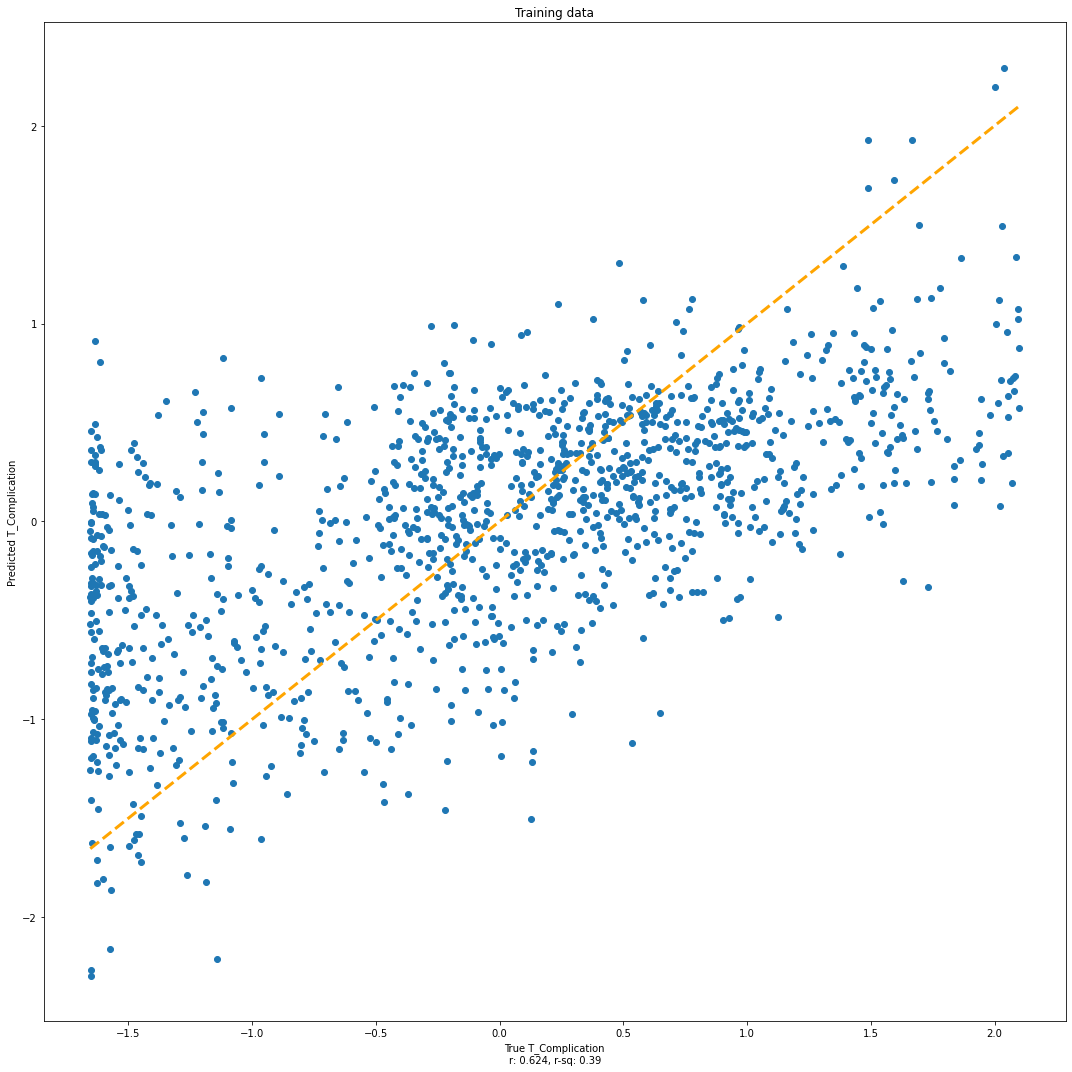
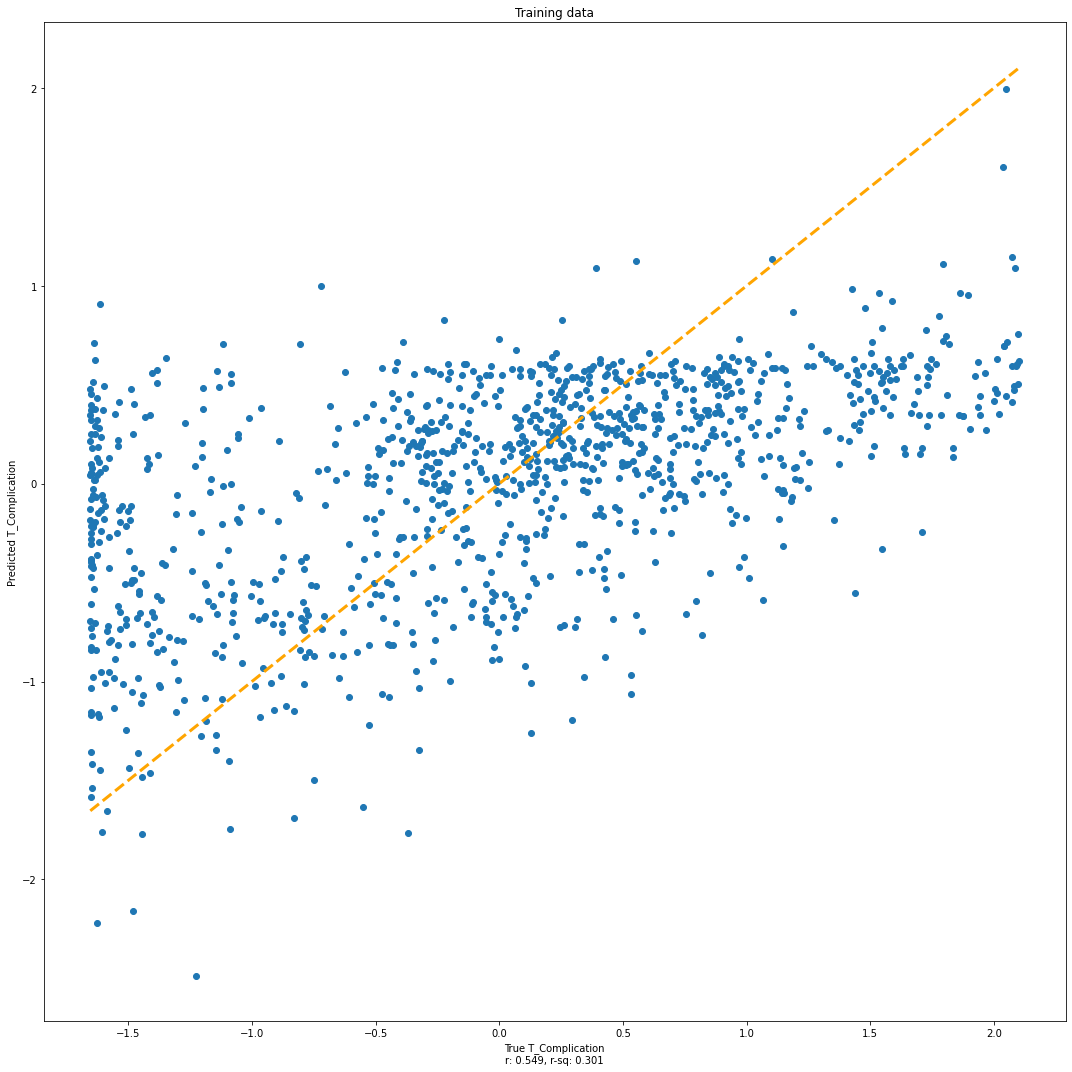
More in-depth error analysis, feature selection, cross-validation implementation

diff --git a/models.py b/models.py
@@ -3,7 +3,7 @@
 # @Email:  shounak@stanford.edu
 # @Filename: models.py
 # @Last modified by:   shounak
-# @Last modified time: 2022-11-26T16:19:16-08:00
+# @Last modified time: 2022-11-26T19:54:29-08:00
 
 import pandas as pd
 from sklearn.linear_model import LinearRegression
@@ -19,6 +19,8 @@ from sklearn.model_selection import cross_val_score
 
 # TODO: Implement StandardScaler for normalization
 # TODO: Try out Sparse Regularization
+
+# NOTES: https://stats.stackexchange.com/questions/497050/how-big-a-difference-for-test-train-rmse-is-considered-as-overfit
 
 _ = """
 ################################################################################
@@ -44,12 +46,12 @@ def init_model():
 
 def train_model(model, TRAIN_DF, plot=False):
     # Train Model
-    design_matrix = TRAIN_DF[:, :-1]
-    prediction_column = TRAIN_DF[:, -1]
+    design_matrix = TRAIN_DF[:, :-1].copy()
+    prediction_column = TRAIN_DF[:, -1].copy()
     model.fit(design_matrix, prediction_column)
     # model.score(design_matrix, prediction_column) # Equiv to code below for getting r**2 value
-    r, r_sq, std_err, rmse, ALL_DATA = _feed_through_model(model, design_matrix, prediction_column,
-                                                           plot, dataset_type='Training')
+    r, r_sq, std_err, rmse, _ = _feed_through_model(model, design_matrix, prediction_column,
+                                                    plot, dataset_type='Training')
 
     return r, r_sq, std_err, rmse, _
 
@@ -98,47 +100,66 @@ def save_data(training_tracker, test_tracker, training_std_err,
         json.dump(testing_rmse, fp)
 
 
-def run_many_splits(ALL_DATA):
+def run_many_splits(ALL_DATA, last_model=None, on='TRAIN-TEST-SPLIT', DEFAULT_PROP=0.7):
     training_tracker, test_tracker, training_std_err, testing_std_err = {}, {}, {}, {}
     training_rmse, testing_rmse = {}, {}
-    for prop in np.array(range(500, 950 + 1)) / 1000:
+
+    def perform_run(ALL_DATA, last_model=None, prop=None, percent=None):
+        VAR_TO_TRACK = prop
+        if percent is not None:
+            assert last_model is not None
+            ALL_DATA = reduced_dataset(ALL_DATA, last_model, REMOVE_THIS_PERCENT=percent)
+            VAR_TO_TRACK = percent
         # Split data
-        TRAIN_DF, TEST_DF = split_data(ALL_DATA, prop)
+        TRAIN_DF, TEST_DF = split_data(ALL_DATA.copy(), prop)
         # Train model
         model = init_model()
         r_train, r_sq_train, std_err_train, rmse_train, _ = train_model(model, TRAIN_DF, plot=False)
         r_test, r_sq_test, std_err_test, rmse_test, _ = test_model(model, TEST_DF, plot=False)
         # Save information
-        training_tracker[prop], test_tracker[prop] = r_train, r_test
-        training_std_err[prop], testing_std_err[prop] = std_err_train, std_err_test
-        training_rmse[prop], testing_rmse[prop] = rmse_train, rmse_test
+        training_tracker[VAR_TO_TRACK], test_tracker[VAR_TO_TRACK] = r_train, r_test
+        training_std_err[VAR_TO_TRACK], testing_std_err[VAR_TO_TRACK] = std_err_train, std_err_test
+        training_rmse[VAR_TO_TRACK], testing_rmse[VAR_TO_TRACK] = rmse_train, rmse_test
 
-    return training_tracker, test_tracker, training_std_err, testing_std_err, training_rmse, testing_rmse
+    if on == 'TRAIN-TEST-SPLIT':
+        for prop in np.array(range(500, 950 + 1)) / 1000:
+            perform_run(ALL_DATA, last_model=None, prop=prop, percent=None)
+        return training_tracker, test_tracker, training_std_err, testing_std_err, training_rmse, testing_rmse
+    elif on == 'PERCENT_REMOVE':
+        for percent in range(20, 100):
+            perform_run(ALL_DATA, last_model=last_model, prop=DEFAULT_PROP, percent=percent)
+        return training_tracker, test_tracker, training_std_err, testing_std_err, training_rmse, testing_rmse
 
 
-def error_analysis(training_tracker, test_tracker, training_metric, testing_metric, metric='RMSE'):
-    # Visualize accuracy results
-    fig, ax1 = plt.subplots(figsize=(16, 10))
-    ax1.set_title(f'Linear Regression:\nImpact of training set size on r-value and {metric}')
+def error_analysis(training_tracker1=None, test_tracker1=None, metric1='r-value',
+                   training_metric2=None, testing_metric2=None, metric2='RMSE',
+                   xlabel='Percentage Training Data', xline=None, save=True):
+    """Visualize accuracy results."""
+    scaler = 0.75
+    fig, ax1 = plt.subplots(figsize=(16 * scaler, 10 * scaler))
+    ax1.set_title(f'Linear Regression:\nImpact of {xlabel} on {metric1} and {metric2}')
     # First variable
-    _ = ax1.set_xlabel("Percentage training data")
-    _ = ax1.set_ylabel("r-value")
-    _ = ax1.plot(training_tracker.keys(), training_tracker.values(),
-                 label='Training r-value', color='darkorchid')
-    _ = ax1.plot(test_tracker.keys(), test_tracker.values(),
-                 label='Testing r-value', color='orangered')
+    _ = ax1.set_xlabel(xlabel)
+    _ = ax1.set_ylabel(metric1)
+    _ = ax1.plot(training_tracker1.keys(), training_tracker1.values(),
+                 label=f'Training {metric1}', color='darkorchid')
+    _ = ax1.plot(test_tracker1.keys(), test_tracker1.values(),
+                 label=f'Testing {metric1}', color='orangered')
     # Second variable
     ax2 = ax1.twinx()
-    _ = ax2.set_ylabel(metric)
-    _ = ax2.plot(training_metric.keys(), training_std_err.values(), ':',
-                 label=f'Training {metric}', color='darkorchid')
-    _ = ax2.plot(testing_std_err.keys(), testing_metric.values(), ':',
-                 label=f'Testing {metric}', color='orangered')
-    _ = fig.legend(bbox_to_anchor=(0.5, 0), loc="lower center", ncol=4)
+    _ = ax2.set_ylabel(metric2)
+    _ = ax2.plot(training_metric2.keys(), training_std_err.values(), ':',
+                 label=f'Training {metric2}', color='darkorchid')
+    _ = ax2.plot(testing_std_err.keys(), testing_metric2.values(), ':',
+                 label=f'Testing {metric2}', color='orangered')
+    _ = fig.legend(bbox_to_anchor=(0.5, -0.05), loc="lower center", ncol=4)
     # Line
-    _ = ax1.axvline(x=0.7, linestyle='--')
+    if xline is not None:
+        _ = ax1.axvline(x=xline, linestyle='--')
     _ = plt.tight_layout()
-    _ = fig.savefig(f'Images/LinReg/LinReg_Error_Analysis_{metric}.png', bbox_inches='tight')
+    if save:
+        _ = fig.savefig(f'Images/LinReg/LinReg_Error_Analysis_{metric1}_{metric2}_{xlabel}.png', bbox_inches='tight')
+    _ = plt.show()
 
 
 def really_check_single(ALL_DATA, iters=100, prop=0.7, plot=False):
@@ -146,7 +167,7 @@ def really_check_single(ALL_DATA, iters=100, prop=0.7, plot=False):
     training_results, testing_results = [], []
     for sim in range(iters):
         ALL_DATA = shuffle_data(ALL_DATA)
-        TRAIN_DF, TEST_DF = split_data(ALL_DATA, TRAIN_PROPORTION=prop)
+        TRAIN_DF, TEST_DF = split_data(ALL_DATA.copy(), TRAIN_PROPORTION=prop)
         # Train model
         model = init_model()
         training_results.append(train_model(model, TRAIN_DF, plot=plot))
@@ -175,6 +196,26 @@ def load_check_single_70():
 #     pass
 
 
+def reduced_dataset(ALL_DATA, model, REMOVE_THIS_PERCENT=20, plot=False):
+    # Calculate Feature Importance
+    # print(f"Number of parameters: {model.coef_.shape[0]}")
+    feature_importances = dict(zip(list(range(model.coef_.shape[0])), abs(model.coef_)))
+    if plot:
+        _ = plt.figure(figsize=(15, 10))
+        _ = plt.bar(feature_importances.keys(), feature_importances.values())
+        _ = plt.show()
+        _ = plt.figure(figsize=(15, 10))
+        _ = plt.hist(feature_importances.values(), bins=30)
+        _ = plt.show()
+    # Large values means great importance, small values means low importance
+    # Anything below this threshold must be removed
+    threshold = np.percentile(list(feature_importances.values()), REMOVE_THIS_PERCENT)
+    keeping = {k: v for k, v in feature_importances.items() if v > threshold}
+    BETTER_DATA = ALL_DATA[list(keeping.keys()) + ['PRED']].copy()
+    # print(f"Removed {len(feature_importances) - len(keeping)} features from list")
+    return BETTER_DATA
+
+
 _ = """
 ################################################################################
 ################################ PRE-PROCESSING ################################
@@ -190,6 +231,11 @@ arr = ALL_DATA.values
 scaler = StandardScaler()
 scaler.fit(arr)
 ALL_DATA = pd.DataFrame(scaler.transform(arr))
+last_col = list(ALL_DATA)[-1]
+ALL_DATA['PRED'] = ALL_DATA[last_col]
+ALL_DATA.drop(last_col, axis=1, inplace=True)
+
+PRED_RANGE = (ALL_DATA['PRED'].min(), ALL_DATA['PRED'].max())
 
 _ = """
 ################################################################################
@@ -197,30 +243,88 @@ _ = """
 ################################################################################
 """
 
-# Split Data
-TRAIN_DF, TEST_DF = split_data(ALL_DATA, 0.7)
+"""Train a "seed" model. 70/30 split, using all the features."""
+TRAIN_DF, TEST_DF = split_data(ALL_DATA.copy(), 0.7)
+# Train SEED_MODEL
+SEED_MODEL = init_model()
+r_train, r_sq_train, std_err_train, rmse_train, _ = train_model(SEED_MODEL, TRAIN_DF, plot=True)
+r_test, r_sq_test, std_err_test, rmse_test, _ = test_model(SEED_MODEL, TEST_DF, plot=True)
+
+"""
+Using a 70-30 TRAIN-TEST split, what percent of features should we remove?
+AKA, what percent:
+– Minimizes RMSE and STD_ERR
+– Maximizes R-VALUE
+"""
+(training_tracker, test_tracker, training_std_err,
+ testing_std_err, training_rmse, testing_rmse) = run_many_splits(ALL_DATA,
+                                                                 last_model=SEED_MODEL,
+                                                                 on='PERCENT_REMOVE',
+                                                                 DEFAULT_PROP=0.7)
+error_analysis(training_tracker1=training_tracker, test_tracker1=test_tracker, metric1='r-value',
+               training_metric2=testing_rmse, testing_metric2=testing_rmse, metric2='RMSE',
+               xlabel='Percent Features Removed', xline=85, save=True)
+error_analysis(training_tracker1=training_rmse, test_tracker1=testing_rmse, metric1='RMSE',
+               training_metric2=training_std_err, testing_metric2=testing_std_err, metric2='Std. Error',
+               xlabel='Percent Features Removed', xline=85, save=True)
+
+
+"""
+We noticed that removing 85% of features maximizes fit and minimizes error.
+Removing 85% of features, what's the TRAIN-TEST split should we adopt?
+AKA, what split:
+– Minimizes RMSE and STD_ERR
+– Maximizes R-VALUE
+"""
+BETTER_DATA = reduced_dataset(ALL_DATA, SEED_MODEL, REMOVE_THIS_PERCENT=85)
+(training_tracker, test_tracker, training_std_err,
+ testing_std_err, training_rmse, testing_rmse) = run_many_splits(BETTER_DATA,
+                                                                 last_model=None,
+                                                                 on='TRAIN-TEST-SPLIT',
+                                                                 DEFAULT_PROP=None)
+error_analysis(training_tracker1=training_tracker, test_tracker1=test_tracker, metric1='r-value',
+               training_metric2=training_rmse, testing_metric2=testing_rmse, metric2='RMSE',
+               xlabel='Percent Examples in Training Set', xline=0.6, save=True)
+error_analysis(training_tracker1=training_rmse, test_tracker1=testing_rmse, metric1='RMSE',
+               training_metric2=training_std_err, testing_metric2=testing_std_err, metric2='Std. Error',
+               xlabel='Percent Examples in Training Set', xline=0.6, save=True)
+
+""" Now we're going to double check our results on a single run """
+BETTER_TRAIN_DF, BETTER_TEST_DF = split_data(BETTER_DATA.copy(), 0.6)
 # Train model
 model = init_model()
-r_train, r_sq_train, std_err_train, rmse_train, _ = train_model(model, TRAIN_DF, plot=True)
-r_test, r_sq_test, std_err_test, rmse_test, _ = test_model(model, TEST_DF, plot=True)
+r_train, r_sq_train, std_err_train, rmse_train, _ = train_model(model, BETTER_TRAIN_DF, plot=True)
+r_test, r_sq_test, std_err_test, rmse_test, _ = test_model(model, BETTER_TEST_DF, plot=True)
+
+""" Now we're going to double check our results using CROSS VALIDATION """
+training_results, testing_results = really_check_single(BETTER_DATA, iters=1000, prop=0.6, plot=False)
+avg_r_train, avg_r_sq_train, avg_std_err_train, avg_rmse_train = (training_results[:, 0].mean(),
+                                                                  training_results[:, 1].mean(),
+                                                                  training_results[:, 2].mean(),
+                                                                  training_results[:, 3].mean())
+avg_r_test, avg_r_sq_test, avg_std_err_test, avg_rmse_test = (testing_results[:, 0].mean(),
+                                                              testing_results[:, 1].mean(),
+                                                              testing_results[:, 2].mean(),
+                                                              testing_results[:, 3].mean())
 
 _ = """
 ################################################################################
 ############################ SPLIT SIZE VS. METRICS ############################
 ################################################################################
 """
-# # Conduct Simulation
-(training_tracker, test_tracker, training_std_err,
- testing_std_err, training_rmse, testing_rmse) = run_many_splits(ALL_DATA)
-save_data(training_tracker, test_tracker, training_std_err,
-          testing_std_err, training_rmse, testing_rmse)
-# Load Already-Conducted Simulation Results
-training_tracker, test_tracker, training_std_err, testing_std_err, training_rmse, testing_rmse = load_data()
-# Plot errors and fit
-plt.plot(training_rmse.keys(), training_rmse.values())
-plt.plot(testing_rmse.keys(), testing_rmse.values())
-error_analysis(training_tracker, test_tracker, training_std_err, testing_std_err, metric='Std Error')
-error_analysis(training_tracker, test_tracker, training_rmse, testing_rmse, metric='RMSE')
+# # # Conduct Simulation
+# (training_tracker, test_tracker, training_std_err,
+#  testing_std_err, training_rmse, testing_rmse) = run_many_splits(ALL_DATA)
+# save_data(training_tracker, test_tracker, training_std_err,
+#           testing_std_err, training_rmse, testing_rmse)
+# # Load Already-Conducted Simulation Results
+# training_tracker, test_tracker, training_std_err, testing_std_err, training_rmse, testing_rmse = load_data()
+# # Plot errors and fit
+# plt.plot(training_rmse.keys(), training_rmse.values())
+# plt.plot(testing_rmse.keys(), testing_rmse.values())
+# error_analysis(training_tracker, test_tracker, training_std_err,
+#                testing_std_err, metric='Std Error', xlabel='Percent Removed')
+# error_analysis(training_tracker, test_tracker, training_rmse, testing_rmse, metric2='RMSE', xlabel='Percent Removed')
 
 _ = """
 ################################################################################
@@ -252,20 +356,31 @@ _ = """
 ################################################################################
 """
 
-# TRAIN_DF, TEST_DF = split_data(ALL_DATA, TRAIN_PROPORTION=0.7)
-arr = ALL_DATA.values
+# TRAIN_DF, TEST_DF = split_data(ALL_DATA.copy(), TRAIN_PROPORTION=0.7)
+arr = BETTER_DATA.values
 design_matrix = arr[:, :-1]
 prediction_column = arr[:, -1]
 # Train model
 rmse = []
-for k in range(2, 30):
+for k in range(2, len(BETTER_DATA)):
     model = init_model()
     cv = KFold(n_splits=k, random_state=1, shuffle=True)
     scores = cross_val_score(model, design_matrix, prediction_column, scoring='neg_mean_squared_error',
                              cv=cv, n_jobs=-1)
     rmse.append(np.mean(scores) * -1)
 
+with open('Data/Intermediate/RMSE_Scores.json', 'w') as f:
+    json.dump(rmse, f)
+
+_ = plt.figure(figsize=(17, 10))
+_ = plt.title('(Unconstrained) Relationship between number of folds and RMSE')
 _ = plt.xlabel('Fold')
 _ = plt.ylabel('RMSE')
 _ = plt.plot(rmse)
+
+_ = plt.figure(figsize=(17, 10))
+_ = plt.title('(First-100) Relationship between number of folds and RMSE')
+_ = plt.xlabel('Fold')
+_ = plt.ylabel('RMSE')
+_ = plt.plot(rmse[:100])
 # EOF

diff --git a/util.py b/util.py
@@ -3,7 +3,7 @@
 # @Email:  shounak@stanford.edu
 # @Filename: utll.py
 # @Last modified by:   shounak
-# @Last modified time: 2022-11-26T15:25:12-08:00
+# @Last modified time: 2022-11-26T16:40:07-08:00
 
 
 import matplotlib.pyplot as plt
